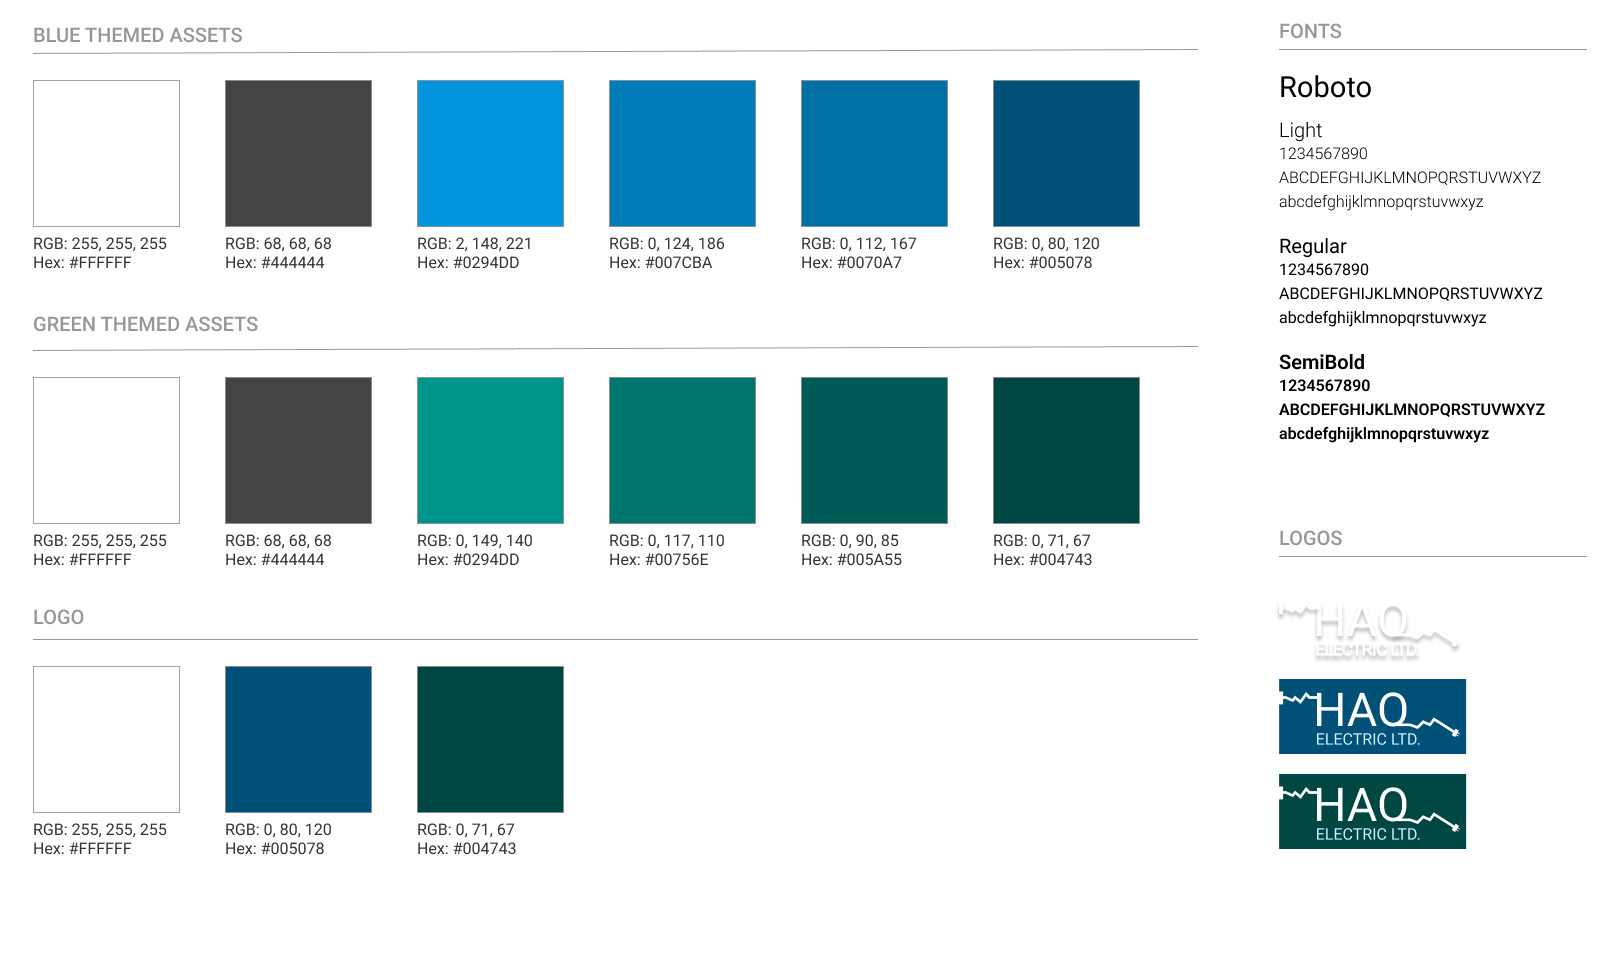
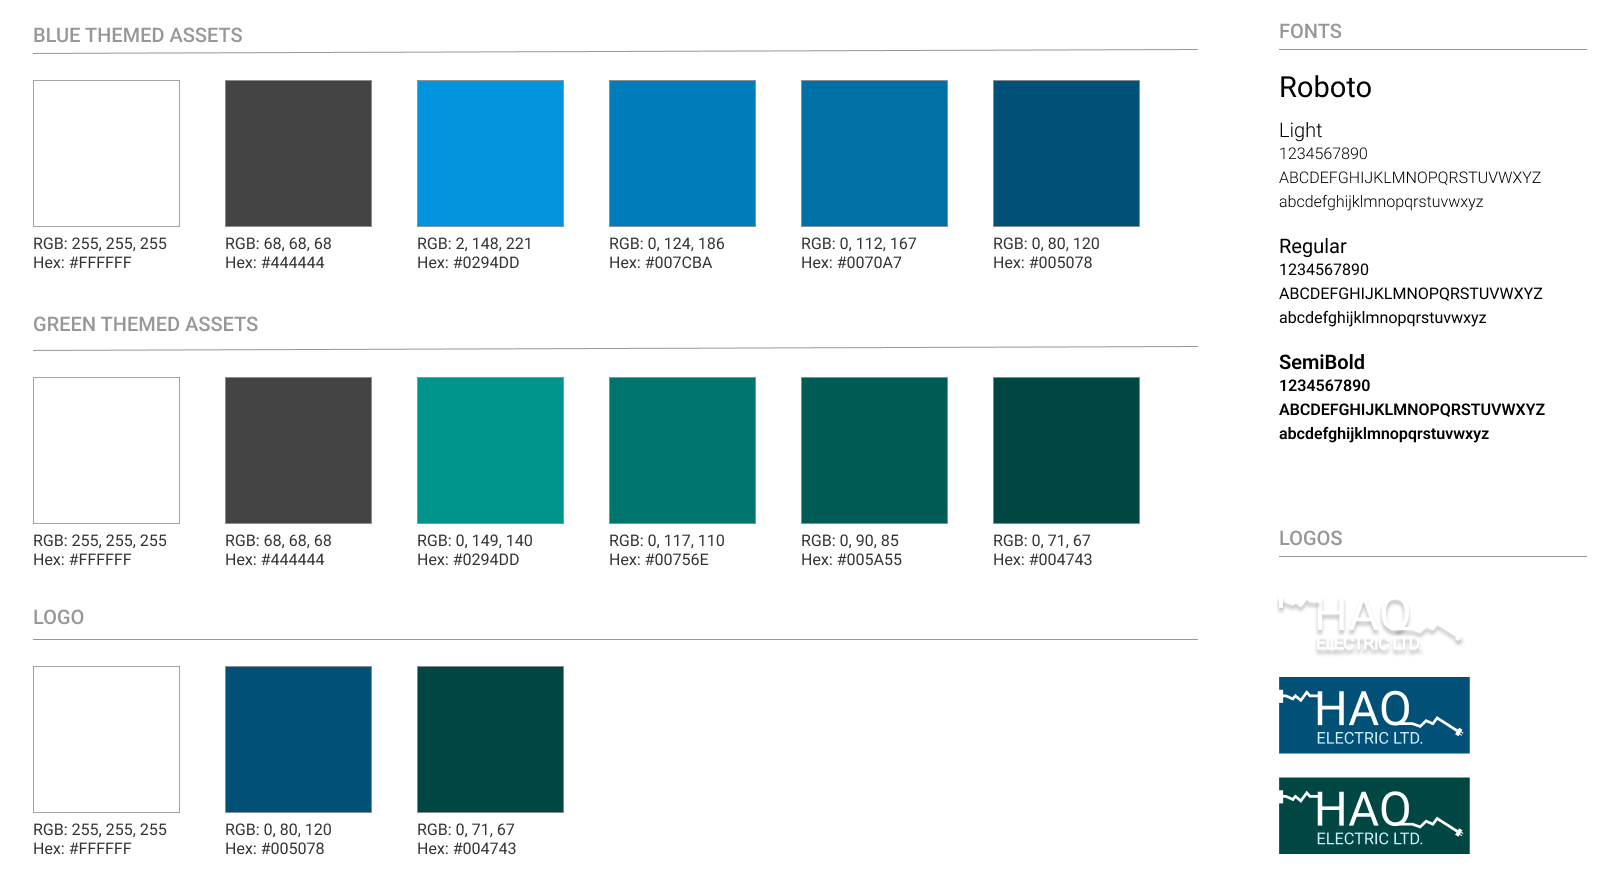
EH

diff --git a/main/graphic_designer.html b/main/graphic_designer.html
@@ -146,9 +146,9 @@
 
                 <div class="mySlides1">
                     <!-- <div class="numbertext">3 / 3</div> -->
-                    <img src="https://ariellebeltran.github.io/portfolio/main/images/HAOElectric_colours.png"
-                        style="width:100%">
-                    <figcaption>Colour palette found from browser inspect tool</figcaption>
+                    <img src="https://ariellebeltran.github.io/portfolio/main/images/HAOElectric_ogstyleguide.png"
+                        width="100%" height="auto">
+                    <figcaption>Created a style guide to gather all of HAO Electric's assets</figcaption>
                 </div>
 
                 <!-- Next and previous buttons -->
@@ -185,21 +185,21 @@
                 <div class="mySlides2">
                     <!-- <div class="numbertext">1 / 3</div> -->
                     <img src="https://ariellebeltran.github.io/portfolio/main/images/rough-placemat2.png"
-                        style="width:85%">
+                        style="width:100%">
                     <!-- <div class="text">Caption Text</div> -->
                 </div>
 
                 <div class="mySlides2">
                     <!-- <div class="numbertext">2 / 3</div> -->
                     <img src="https://ariellebeltran.github.io/portfolio/main/images/rough-placemat3.png"
-                        style="width:85%">
+                        style="width:100%">
                     <!-- <div class="text">Caption Two</div> -->
                 </div>
 
                 <div class="mySlides2">
                     <!-- <div class="numbertext">3 / 3</div> -->
                     <img src="https://ariellebeltran.github.io/portfolio/main/images/rough-placemat4.png"
-                        style="width:85%">
+                        style="width:100%">
                     <!-- <div class="text">Caption Three</div> -->
                 </div>
 
@@ -234,10 +234,10 @@
             </div>
 
             <br><br>
-            <h3>New Colour Palette</h3>
+            <h3>Project Style Guide</h3>
             <div class="image-heading-smaller">
-                <img src="https://ariellebeltran.github.io/portfolio/main/images/HAOElectric_colours-remade.png"
-                    alt="An image of one of the HAO Electric mockup deliverables." width="800px" height="auto">
+                <img src="https://ariellebeltran.github.io/portfolio/main/images/HAOElectric_newstyleguide.png"
+                    alt="An image of one of the HAO Electric mockup deliverables." width="1000px" height="auto">
                 <figcaption>Redesigned to match the project deliverables.</figcaption>
             </div>
             <br>
@@ -297,17 +297,17 @@
             <div class="slideshow-container-w3schools">
                 <div class="mySlides3">
                     <img src="https://ariellebeltran.github.io/portfolio/main/images/HAO_mockup1.png"
-                        alt="An image of one of the HAO Electric mockup deliverables." width="95%" height="auto">
+                        alt="An image of one of the HAO Electric mockup deliverables." width="100%" height="auto">
                 </div>
 
                 <div class="mySlides3">
                     <img src="https://ariellebeltran.github.io/portfolio/main/images/HAO_mockup2.png"
-                        alt="An image of one of the HAO Electric mockup deliverables." width="95%" height="auto">
+                        alt="An image of one of the HAO Electric mockup deliverables." width="100%" height="auto">
                 </div>
 
                 <div class="mySlides3">
                     <img src="https://ariellebeltran.github.io/portfolio/main/images/HAO_mockup3.png"
-                        alt="An image of one of the HAO Electric mockup deliverables." width="95%" height="auto">
+                        alt="An image of one of the HAO Electric mockup deliverables." width="100%" height="auto">
                 </div>
 
 

diff --git a/main/slideshow1.js b/main/slideshow1.js
@@ -74,10 +74,27 @@ function plusSlides(n, no) {
 function showSlides(n, no) {
   let i;
   let x = document.getElementsByClassName(slideId[no]); //x stores all slide elements belonging to that slideshow
-  if (n > x.length) {slideIndex[no] = 1} //if n is greater than amount of slides, it loops back to start
-  if (n < 1) {slideIndex[no] = x.length} //if n is less than 1 it goes to the last slide
+  if (n > x.length) {slideIndex[no] = 1;} //if n is greater than amount of slides, it loops back to start
+  if (n < 1) {slideIndex[no] = x.length;} //if n is less than 1 it goes to the last slide
   for (i = 0; i < x.length; i++) {
      x[i].style.display = "none";  
   }
   x[slideIndex[no]-1].style.display = "block";  
 }
+
+// Adjusts arrow placement dynamically based on image heights
+window.addEventListener('load', function() {
+    slideId.forEach((id) => {
+        const slides = document.getElementsByClassName(id);
+
+        for (let slide of slides) {
+            const img = slide.querySelector("img"); // Select the image inside the slide
+            if (img) {
+                const width = img.clientWidth;
+                document.querySelector('.prev').style.left = `${-width * 0.5}px`; // Position prev arrow
+                document.querySelector('.next').style.right = `${-width * 0.5}px`; // Position next arrow
+            }
+        }
+    });
+});
+

diff --git a/main/style.css b/main/style.css
@@ -903,22 +903,20 @@ li {
 /* Next & previous buttons */
 .prev,
 .next {
-    cursor: pointer;
     position: absolute;
     top: 50%;
-    right: 100%;
+    transform: translateY(-50%); /* Centers arrows vertically */
+    cursor: pointer;
     width: auto;
-    margin-top: -22px;
     padding: 16px 5px;
     color: rgb(156, 156, 156);
     font-weight: bold;
     font-size: 18px;
     transition: 0.6s ease;
-    border-radius: 0 3px 3px 0;
-    user-select: none;
     border-radius: 5px;
     text-align: center;
 }
+
 
 /* Position the "next button" to the right */
 .next {
